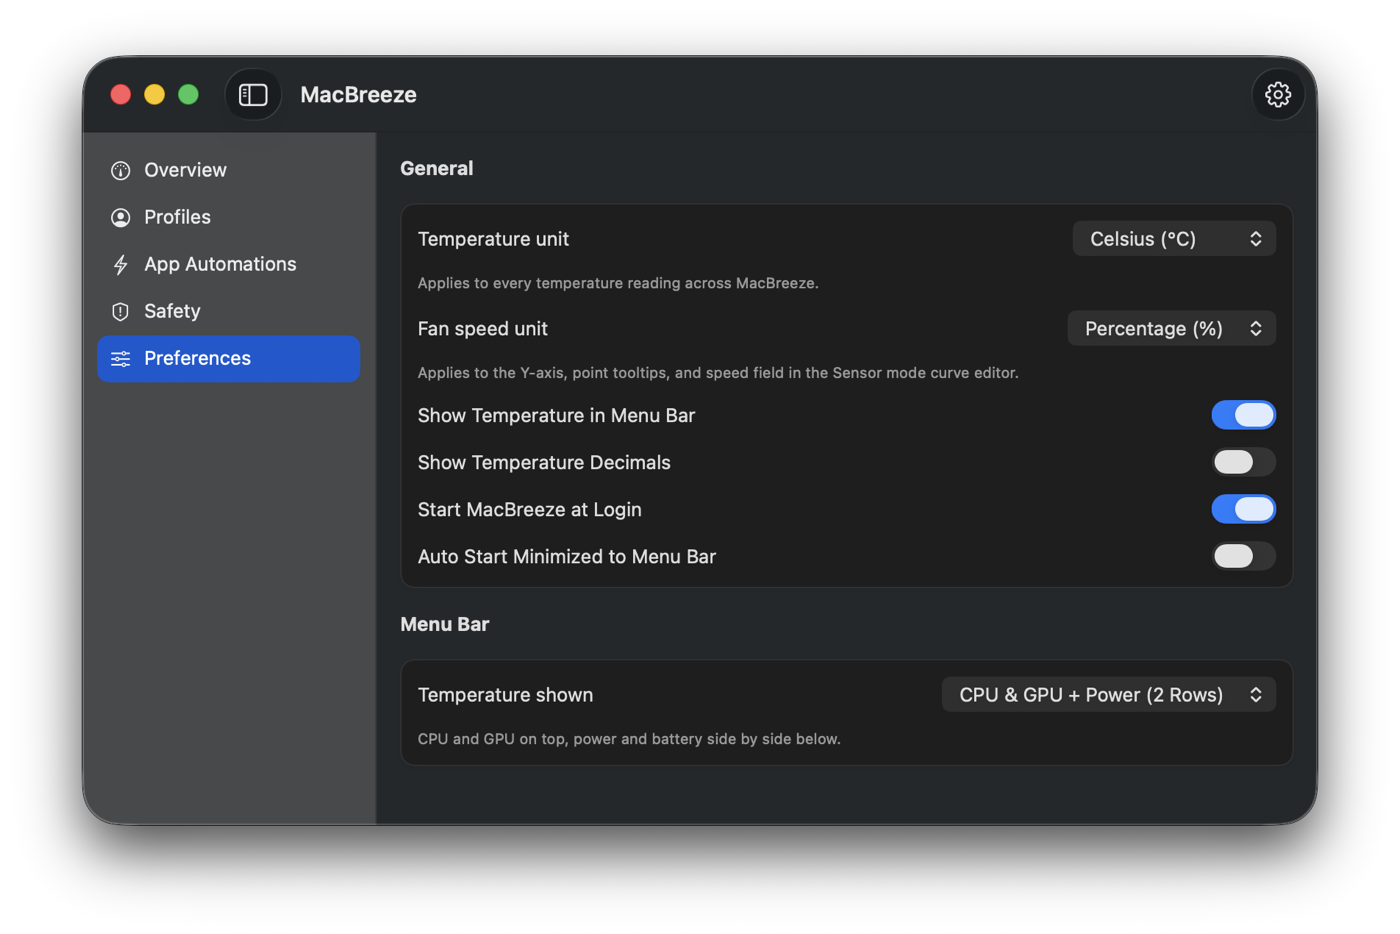
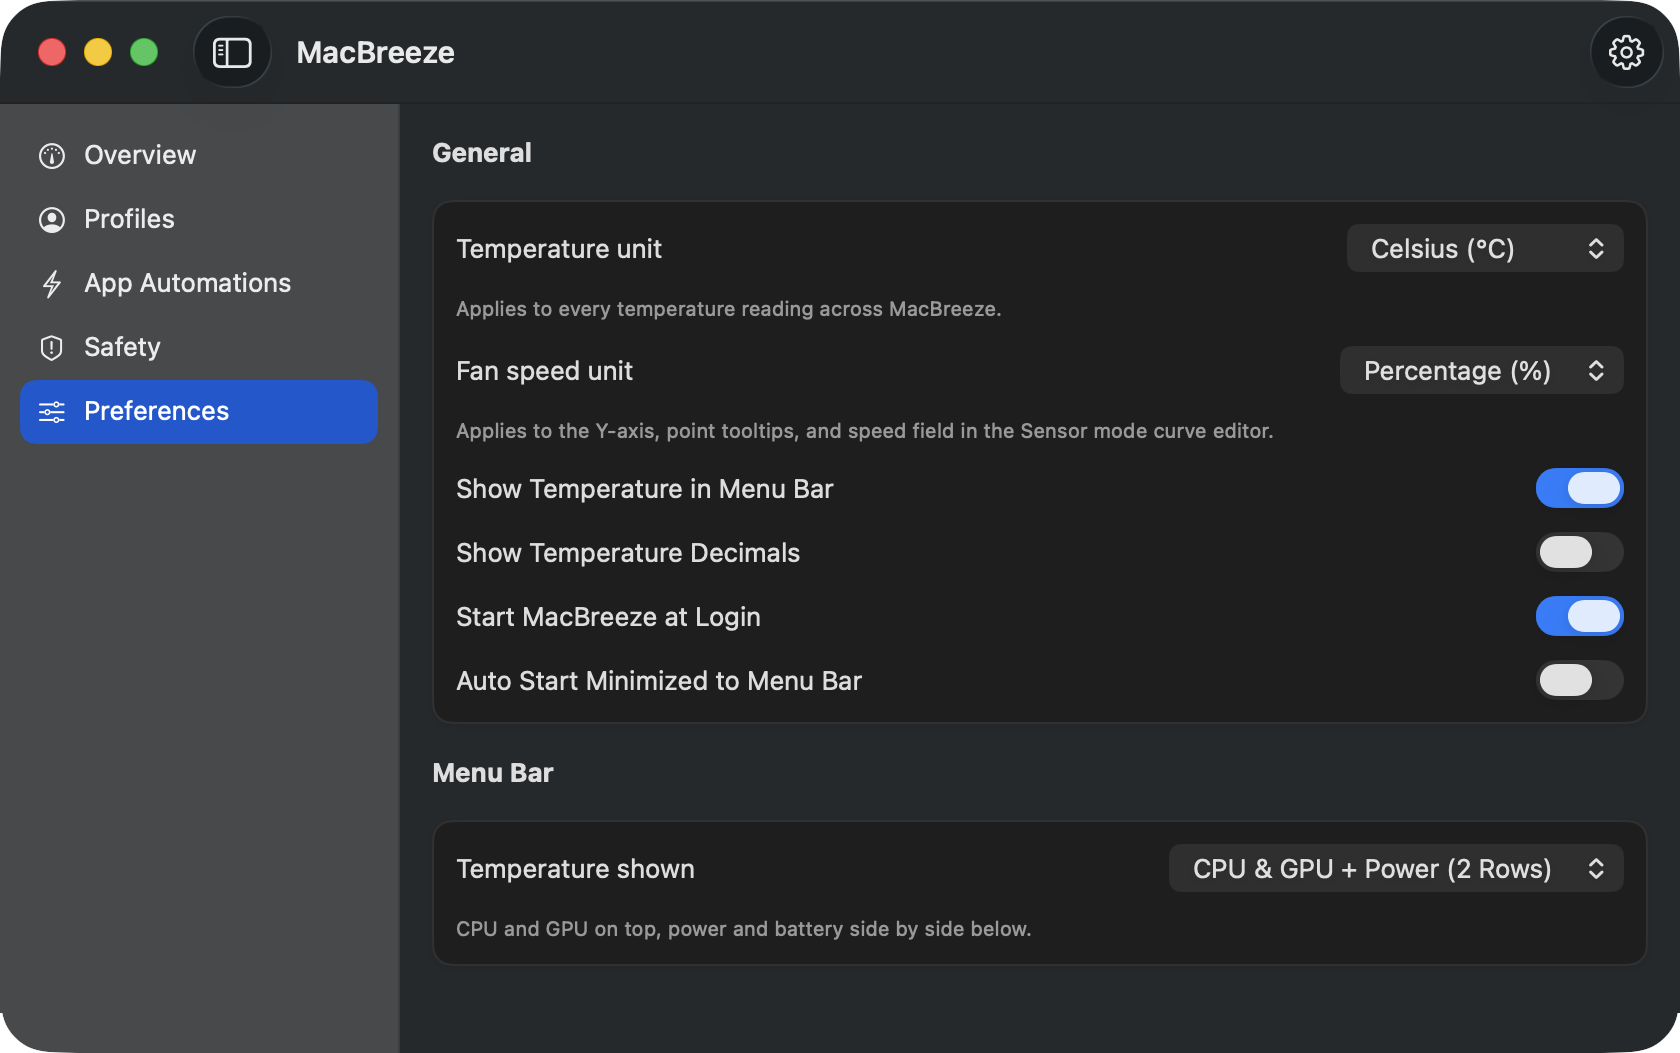
Refresh the screenshots and show the menu bar panel
Every shot is recaptured from 1.0.8, window-only, in the app's normal state — the
old set was taken while an app automation held the fans, so half of it showed the
locked UI rather than what someone opening MacBreeze sees.

Adds the menu bar panel as its own tour tab. It is the surface people actually use
day to day and the site had never shown it. Held at its natural 326pt width instead
of filling the viewer, which would stretch a popover past 2x.

Claude-Session: https://claude.ai/code/session_01FyjwAjVEn6sjhpFptZx4sG

diff --git a/index.html b/index.html
@@ -188,6 +188,10 @@
           <span class="tour-tab-title">Overview</span>
           <span class="tour-tab-desc">Live temps, fan RPMs, and mode — all in one glance.</span>
         </button>
+        <button class="tour-tab" data-tour="menubar" role="tab" aria-selected="false">
+          <span class="tour-tab-title">Menu Bar</span>
+          <span class="tour-tab-desc">Temperatures in the menu bar, controls one click away.</span>
+        </button>
         <button class="tour-tab" data-tour="profiles" role="tab" aria-selected="false">
           <span class="tour-tab-title">Profiles</span>
           <span class="tour-tab-desc">Named speed presets you can switch between instantly.</span>
@@ -207,6 +211,7 @@
       </div>
       <div class="tour-viewer reveal d2">
         <img src="images/tour-overview.png" alt="MacBreeze Overview tab showing live CPU, GPU, battery, and Wi-Fi temperatures, power draw, and an editable temperature-to-speed fan curve with linked left and right fans" class="tour-image" data-tour-image="overview">
+        <img src="images/tour-menubar.png" alt="The MacBreeze menu bar panel showing the active profile, Fans Linked status, CPU, GPU, battery, and Wi-Fi temperatures, power draw, and the Auto, Manual, and Sensor fan mode picker beside the Blast button" class="tour-image" data-tour-image="menubar" hidden>
         <img src="images/tour-profiles.png" alt="MacBreeze Profiles tab showing Default, Quiet, and AI - LLM speed profiles" class="tour-image" data-tour-image="profiles" hidden>
         <img src="images/tour-automations.png" alt="MacBreeze App Automations tab showing DaVinci Resolve and Affinity with per-app fan behavior" class="tour-image" data-tour-image="automations" hidden>
         <img src="images/tour-safety.png" alt="MacBreeze Safety tab showing the Auto-Blast trigger temperature and overheat notification settings" class="tour-image" data-tour-image="safety" hidden>

diff --git a/sections/tour.css b/sections/tour.css
@@ -68,6 +68,9 @@
 .tour-viewer {
   position: relative;
   aspect-ratio: 1400 / 934;
+  display: flex;
+  align-items: center;
+  justify-content: center;
 }
 
 .tour-image {
@@ -78,6 +81,16 @@
 }
 .tour-image[hidden] {
   display: none;
+}
+
+/* The menu bar panel is a 326pt popover, not a window. Filling the viewer the way the window
+   shots do would stretch it past 2x and leave it visibly soft, so it is held at its own size and
+   centred in the frame instead. */
+.tour-image[data-tour-image="menubar"] {
+  width: auto;
+  height: auto;
+  max-width: min(326px, 100%);
+  max-height: 100%;
 }
 
 /* Responsive — extends the site's existing 900 / 760 / 600 breakpoints */
